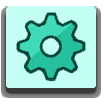
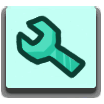
Add new modifiers, settings, and page buttons

Changed region(s): [[0.1442, 0.1154, 0.8365, 0.7788]]

diff --git a/MiraAPI/Utilities/Assets/MiraAssets.cs b/MiraAPI/Utilities/Assets/MiraAssets.cs
@@ -206,6 +206,21 @@ public static class MiraAssets
     public static LoadableResourceAsset WikiRolesButtonOpenSprite { get; } = new("MiraAPI.Resources.Wiki.SidebarRolesButtonOpen.png");
 
     /// <summary>
+    /// Gets the sprite used for the modifiers button while hovering.
+    /// </summary>
+    public static LoadableResourceAsset WikiModifiersButtonHoverSprite { get; } = new("MiraAPI.Resources.Wiki.SidebarModifiersButtonHover.png");
+
+    /// <summary>
+    /// Gets the sprite used for the modifiers button while hovering.
+    /// </summary>
+    public static LoadableResourceAsset WikiModifiersButtonIdleSprite { get; } = new("MiraAPI.Resources.Wiki.SidebarModifiersButtonIdle.png");
+
+    /// <summary>
+    /// Gets the sprite used for the modifiers button while hovering.
+    /// </summary>
+    public static LoadableResourceAsset WikiModifiersButtonOpenSprite { get; } = new("MiraAPI.Resources.Wiki.SidebarModifiersButtonOpen.png");
+
+    /// <summary>
     /// Gets the sprite used for the roles button while hovering.
     /// </summary>
     public static LoadableResourceAsset GroupCountHoverSprite { get; } = new("MiraAPI.Resources.Wiki.GroupCountHover.png");
@@ -334,6 +349,26 @@ public static class MiraAssets
     /// Gets the sprite used for terminology.
     /// </summary>
     public static LoadableResourceAsset IconTerminology { get; } = new("MiraAPI.Resources.Wiki.IconTerminology.png");
+
+    /// <summary>
+    /// Gets the Page switching sprite.
+    /// </summary>
+    public static LoadableResourceAsset PageLeftHover { get; } = new("MiraAPI.Resources.Wiki.PageLeftHover.png");
+
+    /// <summary>
+    /// Gets the Page switching sprite.
+    /// </summary>
+    public static LoadableResourceAsset PageLeftIdle { get; } = new("MiraAPI.Resources.Wiki.PageLeftIdle.png");
+
+    /// <summary>
+    /// Gets the Page switching sprite.
+    /// </summary>
+    public static LoadableResourceAsset PageRightHover { get; } = new("MiraAPI.Resources.Wiki.PageRightHover.png");
+
+    /// <summary>
+    /// Gets the Page switching sprite.
+    /// </summary>
+    public static LoadableResourceAsset PageRightIdle { get; } = new("MiraAPI.Resources.Wiki.PageRightIdle.png");
 
     internal static LoadableResourceAsset BlankSprite { get; } = new("MiraAPI.Resources.BlankSprite.png");
 }

diff --git a/MiraAPI/Patches/RoleGuidePatches.cs b/MiraAPI/Patches/RoleGuidePatches.cs
@@ -661,9 +661,9 @@ public static class RoleGuidePatches
             instance.TabButtons[2].transform.parent);
         SetupTabButton(
             modifiersButton,
-            MiraAssets.WikiRolesButtonIdleSprite,
-            MiraAssets.WikiRolesButtonOpenSprite,
-            MiraAssets.WikiRolesButtonHoverSprite);
+            MiraAssets.WikiModifiersButtonIdleSprite,
+            MiraAssets.WikiModifiersButtonOpenSprite,
+            MiraAssets.WikiModifiersButtonHoverSprite);
         modifiersButton.OnClick = new Button.ButtonClickedEvent();
         modifiersButton.OnClick.AddListener((Action)(() => OpenModifiersTab()));
         instance.TabButtons.Add(modifiersButton);
@@ -2189,10 +2189,10 @@ public static class RoleGuidePatches
         SearchSortingGroupButton.gameObject.SetActive(paginationVisible);
     }
 
-    private static void SetPaginationSprites(SpriteRenderer idle, SpriteRenderer hover, bool flip)
+    private static void SetPaginationSprites(SpriteRenderer idle, SpriteRenderer hover, bool isLeft)
     {
-        var idleSprite = MiraAssets.NextButton.LoadAsset();
-        var hoverSprite = MiraAssets.NextButtonActive.LoadAsset();
+        var idleSprite = isLeft ? MiraAssets.PageLeftIdle.LoadAsset() : MiraAssets.PageRightIdle.LoadAsset();
+        var hoverSprite = isLeft ? MiraAssets.PageLeftHover.LoadAsset() : MiraAssets.PageRightHover.LoadAsset();
 
         // Match the on-screen size of the sort icon being replaced, since the arrow art differs in size.
         var currentHeight = idle.sprite ? idle.sprite.bounds.size.y * idle.transform.localScale.y : 0f;
@@ -2201,7 +2201,6 @@ public static class RoleGuidePatches
 
         idle.sprite = idleSprite;
         hover.sprite = hoverSprite;
-        idle.flipX = hover.flipX = flip;
         idle.transform.localScale = hover.transform.localScale = new Vector3(scale, scale, 1f);
     }
 
